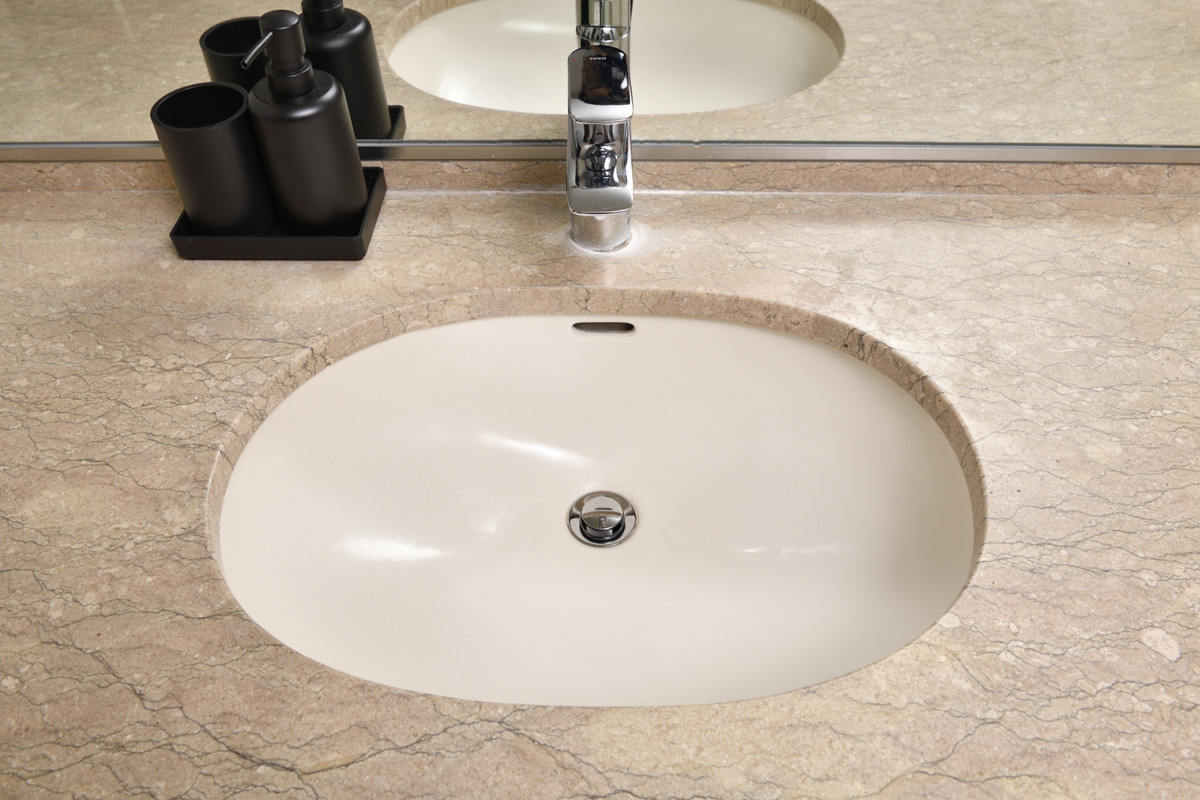
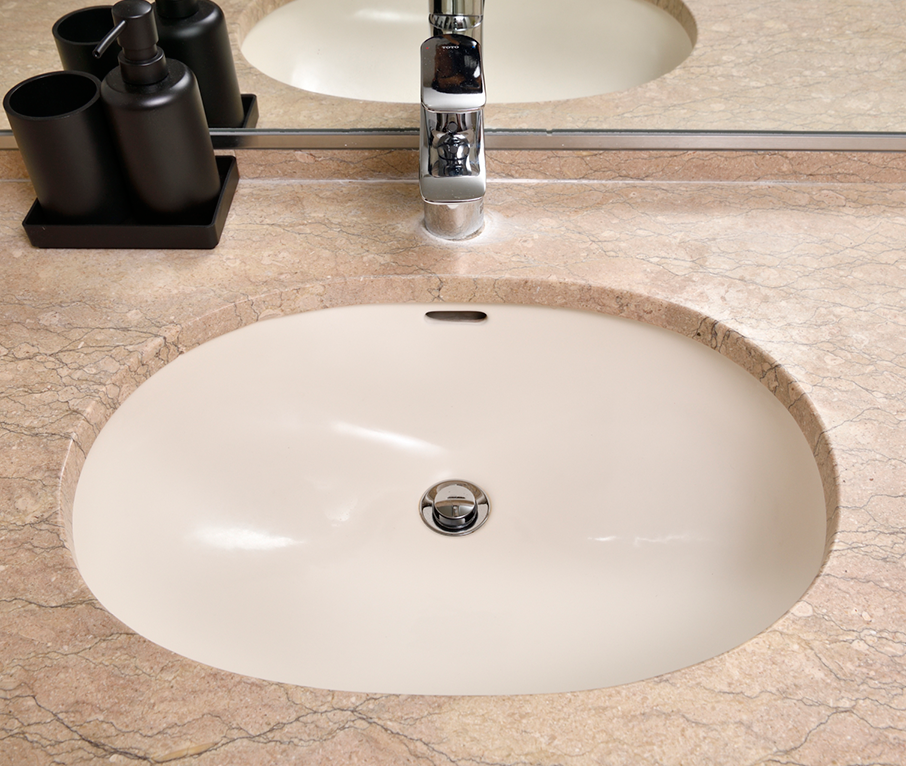
最新 (7/4 昼過ぎ)

diff --git a/Ebisu_Realestate_dev/resources/views/model_room.blade.php b/Ebisu_Realestate_dev/resources/views/model_room.blade.php
@@ -62,7 +62,7 @@
             <p class="s18 m-0 gold-2">ハンズフリー水栓</p>
           </div>
           <div class="">
-            <img class="d-block w-100" src="{{ asset('/images/oven.png') }}" alt="">
+            <img class="d-block w-100" src="{{ asset('/images/oven.png') }}" alt="" style="object-position: 50% 73%;">
             <p class="s18 m-0 gold-2">多機能オーブンレンジ</p>
           </div>
           <div class="">
@@ -158,7 +158,7 @@
             <p class="s18 m-0 gold-2">洗面人造大理石カウンター天板</p>
           </div>
           <div class="small_picture">
-            <img class="d-block w-100" src="{{ asset('/images/bowl.png') }}" alt="">
+            <img class="d-block w-100" src="{{ asset('/images/bowl.png') }}" alt="" style="object-position:50% 65%;">
             <p class="s18 m-0 gold-2">洗面ボウル</p>
           </div>
         </div>
@@ -194,11 +194,11 @@
             <p class="s14 m-0 model-text-end">洗面室(2)401号室(Cﾀｲﾌﾟ)</p>
           </div>
           <div class="small_picture1 pc_hid">
-            <img class="d-block w-100" src="{{ asset('/images/洗面人造大理石カウンター天板.png') }}" alt="" style="margin-bottom:5px;">
+            <img class="d-block w-100" src="{{ asset('/images/洗面人造大理石カウンター天板.png') }}" alt="" style="margin-bottom:5px; aspect-ratio:4/3; object-fit:cover; object-position: 50% 50%;">
             <p class="s18 m-0 gold-2">洗面人造大理石カウンター天板</p>
           </div>
           <div class="small_picture1 pc_hid">
-            <img class="d-block w-100" src="{{ asset('/images/bowl.png') }}" alt="" style="margin-bottom:5px;">
+            <img class="d-block w-100" src="{{ asset('/images/bowl.png') }}" alt="" style="margin-bottom:5px; aspect-ratio:4/3; object-fit:cover; object-position: 50% 85%;">
             <p class="s18 m-0 gold-2">洗面ボウル</p>
           </div>
         </div>
@@ -284,12 +284,12 @@
           <p class="s10" style="margin-bottom:15px;">※掲載の写真は401号室(Cﾀｲﾌﾟ)､202号室(Dﾀｲﾌﾟ)を<br class="sp_hid"><span class="pc_indent">&nbsp;&nbsp;&nbsp;</span>2022年6月に撮影したものです｡</p>
         </div>
         <div class="other-logo-sp pc_hid">
-          <div style="margin-bottom:calc(8vw - 10px);">
+          <div style="margin-bottom:calc(6vw - 12px);">
             <img class="d-block other-logo-img" src="{{ asset('/images/other.svg') }}" alt="" style="margin-bottom:10px;">
             <p class="s10 m-0" style="">※掲載の写真は401号室(Cﾀｲﾌﾟ)､202号室(Dﾀｲﾌﾟ)を<br class="sp_hid"><span class="pc_indent">&nbsp;&nbsp;&nbsp;</span>2022年6月に撮影したものです｡</p>
           </div>
           <div>
-            <img class="w-100" src="{{ asset('/images/door-stopper.jpg') }}" alt="" style="aspect-ratio: 260/85; object-fit: cover; margin:0 0 5px;">
+            <img class="w-100" src="{{ asset('/images/door-stopper.jpg') }}" alt="" style="aspect-ratio: 13/5; object-fit: cover; object-position: 50% 30%; margin:0 0 5px;">
             <p class="s18 m-0 gold-2">ドアストッパー</p>
           </div>
         </div>
